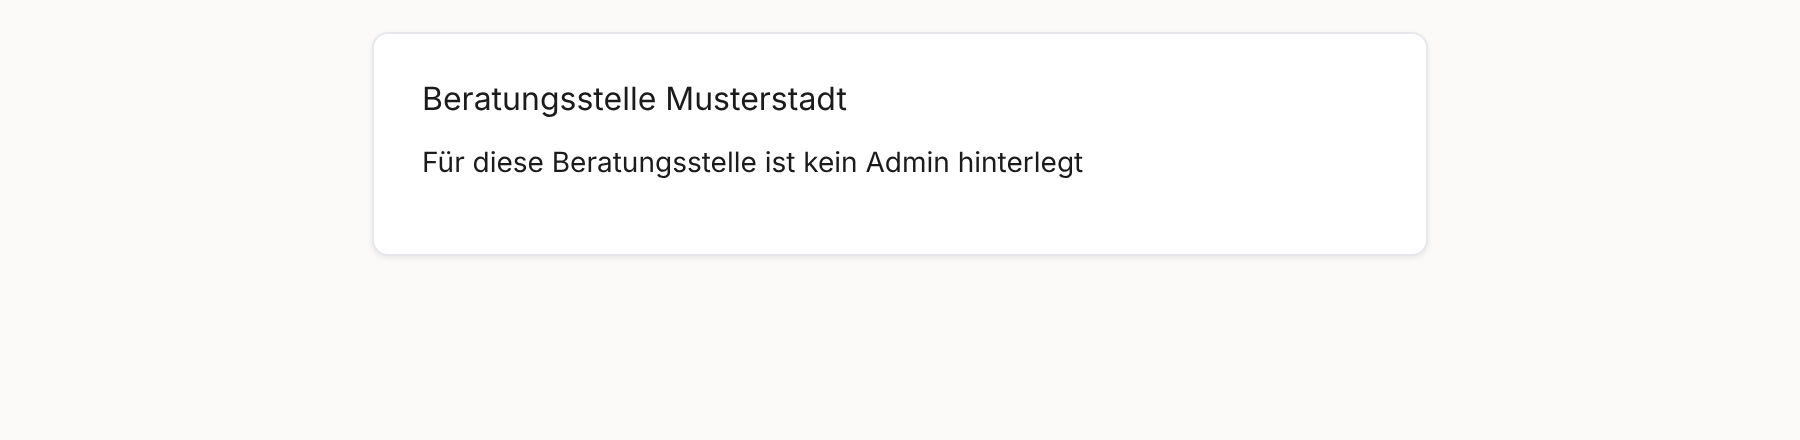
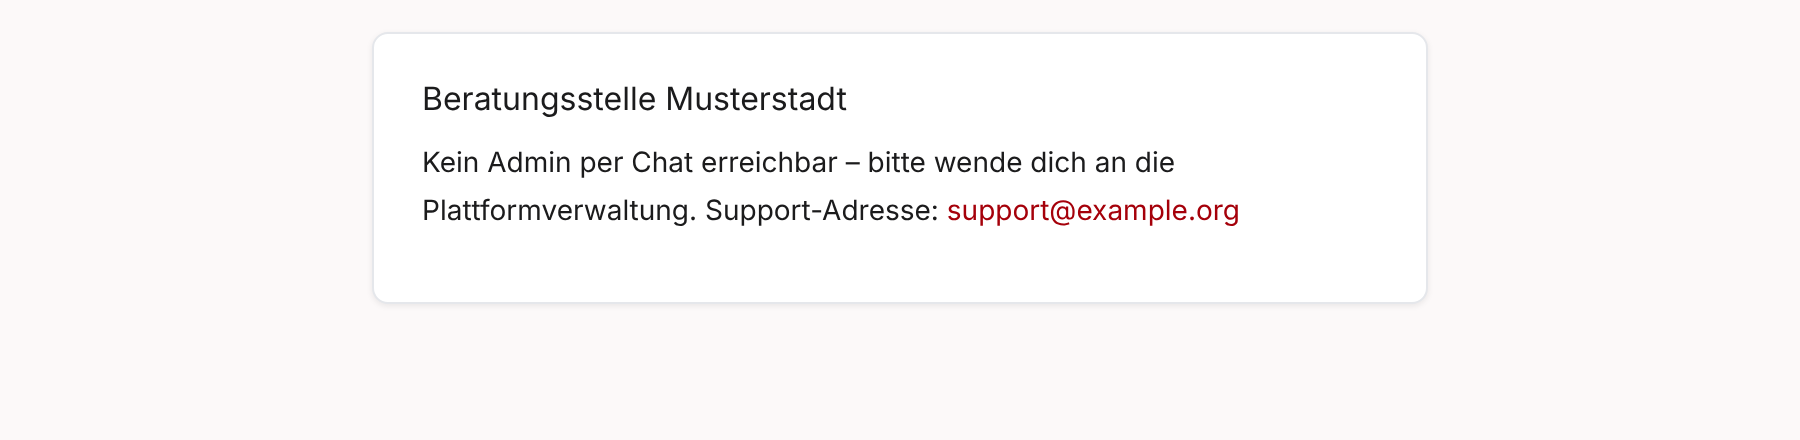
feat(profile): show the platform support e-mail when a centre has no chat admin
When a counselling centre has no admin reachable by internal chat, the hint
now reads "Kein Admin per Chat erreichbar – bitte wende dich an die
Plattformverwaltung." and, if the platform admin configured a support address
in the global settings (`supportEmail`, read from GET /service/settings into
AppConfig), a mailto link to it follows. Without an address: hint only.

- address is validated before it reaches the href (single plain address only)
- i18n de/en/fr/ru/ti/tr (ti is machine-assisted, worth a native check)
- tests: none + email -> link, none without/invalid email -> hint only
- NoAdmin story shows the email variant, new NoAdminNoSupportEmail story;
  02-after-no-admin screenshots and README updated

Refs ORISO-Frontend#1915. Needs ORISO-ConsultingTypeService supportEmail setting.

Claude-Session: https://claude.ai/code/session_012oHuLwgsF18sXNLUVhMCvk

Changed region(s): [[0.2178, 0.4432, 0.6844, 0.5023], [0.2178, 0.325, 0.6533, 0.4136], [0.2178, 0.5614, 0.7778, 0.5909]]

diff --git a/src/components/profile/AgencyAdminContact.stories.tsx b/src/components/profile/AgencyAdminContact.stories.tsx
@@ -2,6 +2,8 @@ import * as React from 'react';
 import { useState } from 'react';
 import type { Meta, StoryObj } from '@storybook/react-vite';
 import { expect, userEvent, waitFor, within } from 'storybook/test';
+import { AppConfigContext } from '../../globalState';
+import { AppConfigInterface } from '../../globalState/interfaces';
 import { SessionsDataContext } from '../../globalState/provider/SessionsDataProvider';
 import { AgencyAdminContact } from './AgencyAdminContact';
 import './profile.styles';
@@ -80,24 +82,28 @@ const MockedUserService = ({
 };
 
 const stage =
-	(scenario: Scenario) =>
+	(scenario: Scenario, supportEmail?: string) =>
 	(Story: React.ComponentType): React.ReactElement => (
 		<MockedUserService scenario={scenario}>
-			<SessionsDataContext.Provider
-				value={{ sessions: [], ready: true, dispatch: () => {} }}
+			<AppConfigContext.Provider
+				value={{ supportEmail } as AppConfigInterface}
 			>
-				<div
-					className="profile"
-					style={{ maxWidth: 560, margin: '0 auto', padding: 16 }}
+				<SessionsDataContext.Provider
+					value={{ sessions: [], ready: true, dispatch: () => {} }}
 				>
-					<div className="profile__data__content">
-						<div>
-							Beratungsstelle Musterstadt
-							<Story />
+					<div
+						className="profile"
+						style={{ maxWidth: 560, margin: '0 auto', padding: 16 }}
+					>
+						<div className="profile__data__content">
+							<div>
+								Beratungsstelle Musterstadt
+								<Story />
+							</div>
 						</div>
 					</div>
-				</div>
-			</SessionsDataContext.Provider>
+				</SessionsDataContext.Provider>
+			</AppConfigContext.Provider>
 		</MockedUserService>
 	);
 
@@ -123,16 +129,31 @@ export const AdminsAvailable: Story = {
 	}
 };
 
-/** No admin on file: a hint replaces the link, never a dead button. */
+/**
+ * No admin reachable by chat: a hint replaces the link (never a dead button)
+ * and, because the platform admin configured a support address in the global
+ * settings, a mailto link to it follows.
+ */
 export const NoAdmin: Story = {
+	decorators: [stage('none', 'support@example.org')],
+	play: async ({ canvasElement }) => {
+		const canvas = within(canvasElement);
+		await expect(await canvas.findByRole('status')).toBeVisible();
+		await expect(
+			await canvas.findByRole('link', { name: 'support@example.org' })
+		).toHaveAttribute('href', 'mailto:support@example.org');
+		await expect(canvas.queryByRole('button')).not.toBeInTheDocument();
+	}
+};
+
+/** No admin and no support address configured: the hint alone, no link. */
+export const NoAdminNoSupportEmail: Story = {
 	decorators: [stage('none')],
 	play: async ({ canvasElement }) => {
-		await expect(
-			await within(canvasElement).findByRole('status')
-		).toBeVisible();
-		await expect(
-			within(canvasElement).queryByRole('button')
-		).not.toBeInTheDocument();
+		const canvas = within(canvasElement);
+		await expect(await canvas.findByRole('status')).toBeVisible();
+		await expect(canvas.queryByRole('link')).not.toBeInTheDocument();
+		await expect(canvas.queryByRole('button')).not.toBeInTheDocument();
 	}
 };
 

diff --git a/src/components/profile/AgencyAdminContact.tsx b/src/components/profile/AgencyAdminContact.tsx
@@ -1,6 +1,7 @@
 import * as React from 'react';
 import { useEffect, useState } from 'react';
 import { useTranslation } from 'react-i18next';
+import { useAppConfig } from '../../hooks/useAppConfig';
 import {
 	AgencyAdminContact as AdminContact,
 	apiGetAgencyAdminContacts
@@ -15,6 +16,20 @@ const NAME_MAX = 50;
 const toChatName = (agencyName: string, fallback: string): string => {
 	const name = (agencyName ?? '').trim().slice(0, NAME_MAX).trim();
 	return name.length >= NAME_MIN ? name : fallback;
+};
+
+/**
+ * One plain address only. The value comes from a public setting and ends up in
+ * a `mailto:` href, so anything that could add recipients, headers or a body
+ * (`?`, `&`, `,`, `;`, whitespace, angle brackets) is rejected rather than
+ * escaped: the hint then simply shows without a link.
+ */
+const SUPPORT_EMAIL_PATTERN =
+	/^[^\s@?&#,;<>"']+@[^\s@?&#,;<>"']+\.[^\s@?&#,;<>"']+$/;
+
+const toSupportEmail = (value: unknown): string | null => {
+	const email = typeof value === 'string' ? value.trim() : '';
+	return SUPPORT_EMAIL_PATTERN.test(email) ? email : null;
 };
 
 type State =
@@ -32,7 +47,9 @@ interface AgencyAdminContactProps {
  * Settings entry of one counselling centre (OBP 2.1 #117): contact the
  * centre's admin(s) in an internal chat named after the centre. The admins
  * come from the UserService (`admin-contacts`); with none, or when they cannot
- * be loaded, a hint replaces the link — never a dead button. Opening twice
+ * be loaded, a hint replaces the link — never a dead button. With none, the
+ * hint also names the platform's fallback support address (global setting
+ * `supportEmail`) as a mailto link when one is configured. Opening twice
  * with the same people reuses the room (decided by the UserService).
  */
 export const AgencyAdminContact = ({
@@ -42,6 +59,7 @@ export const AgencyAdminContact = ({
 	const { t: translate } = useTranslation();
 	const [state, setState] = useState<State>({ status: 'loading' });
 	const { submit, isSubmitting, errorReason } = useInternalSubsetChatSubmit();
+	const supportEmail = toSupportEmail(useAppConfig()?.supportEmail);
 
 	useEffect(() => {
 		let cancelled = false;
@@ -69,7 +87,20 @@ export const AgencyAdminContact = ({
 	if (state.admins.length === 0) {
 		return (
 			<p className="text--tertiary mt--1" role="status">
-				{translate('profile.data.agency.adminContact.none')}
+				<span>
+					{translate('profile.data.agency.adminContact.none')}
+				</span>
+				{supportEmail && (
+					<>
+						{' '}
+						{translate(
+							'profile.data.agency.adminContact.supportEmail'
+						)}{' '}
+						<a className="primary" href={`mailto:${supportEmail}`}>
+							{supportEmail}
+						</a>
+					</>
+				)}
 			</p>
 		);
 	}

diff --git a/src/components/profile/AgencyAdminContact.test.tsx b/src/components/profile/AgencyAdminContact.test.tsx
@@ -21,6 +21,11 @@ vi.mock('react-i18next', () => ({
 	useTranslation: () => ({ t: (key: string) => key })
 }));
 
+let appConfig: { supportEmail?: string } = {};
+vi.mock('../../hooks/useAppConfig', () => ({
+	useAppConfig: () => appConfig
+}));
+
 const apiMock = vi.fn();
 vi.mock('../../api/apiGetAgencyAdminContacts', () => ({
 	apiGetAgencyAdminContacts: (...args: unknown[]) => apiMock(...args)
@@ -42,6 +47,7 @@ vi.mock('../conversationCreate/useInternalSubsetChatSubmit', () => ({
 afterEach(cleanup);
 
 beforeEach(() => {
+	appConfig = {};
 	apiMock.mockReset();
 	submit.mockReset();
 	hookState = { isSubmitting: false, errorReason: null };
@@ -95,6 +101,53 @@ describe('AgencyAdminContact (#117)', () => {
 			await screen.findByText('profile.data.agency.adminContact.none')
 		).toBeTruthy();
 		expect(screen.queryByRole('button')).toBeNull();
+	});
+
+	it('adds a mailto link to the configured support address when the centre has no admin', async () => {
+		appConfig = { supportEmail: 'support@example.org' };
+		apiMock.mockResolvedValue([]);
+		renderIt();
+
+		expect(
+			await screen.findByText('profile.data.agency.adminContact.none')
+		).toBeTruthy();
+		const mail = screen.getByRole('link', { name: 'support@example.org' });
+		expect(mail.getAttribute('href')).toBe('mailto:support@example.org');
+		expect(screen.queryByRole('button')).toBeNull();
+	});
+
+	it.each([
+		['not configured', undefined],
+		['empty', ''],
+		['blank', '   '],
+		['not an address', 'kein-email'],
+		['carrying mailto parameters', 'a@example.org?bcc=x@example.org'],
+		['a list', 'a@example.org, b@example.org']
+	])(
+		'shows the hint without a link when the support address is %s',
+		async (_label, supportEmail) => {
+			appConfig = { supportEmail };
+			apiMock.mockResolvedValue([]);
+			renderIt();
+
+			expect(
+				await screen.findByText('profile.data.agency.adminContact.none')
+			).toBeTruthy();
+			expect(screen.queryByRole('link')).toBeNull();
+		}
+	);
+
+	it('does not offer the support address while admins exist or loading failed', async () => {
+		appConfig = { supportEmail: 'support@example.org' };
+		apiMock.mockRejectedValue(new Error('CATCH_ALL'));
+		renderIt();
+
+		await waitFor(() =>
+			expect(
+				screen.getByText('profile.data.agency.adminContact.error')
+			).toBeTruthy()
+		);
+		expect(screen.queryByRole('link')).toBeNull();
 	});
 
 	it('shows a hint, not a link, and does not throw when the admins cannot be loaded', async () => {

diff --git a/src/globalState/interfaces/AppConfig/AppSettingsInterface.ts b/src/globalState/interfaces/AppConfig/AppSettingsInterface.ts
@@ -21,4 +21,6 @@ export interface AppSettingsInterface {
 	useOverviewPage?: boolean;
 	/** feature flag for the documentation  */
 	documentationEnabled?: boolean;
+	/** Fallback support e-mail (platform admin, global settings); shown when a centre has no chat-reachable admin (#1915). */
+	supportEmail?: string;
 }

diff --git a/src/globalState/interfaces/ServerAppConfigInterface.ts b/src/globalState/interfaces/ServerAppConfigInterface.ts
@@ -4,6 +4,7 @@ export type ServerAppConfigInterface = {
 
 interface ServerAppConfigCustomInterface {
 	mainTenantSubdomainForSingleDomainMultitenancy?: ServerAppConfigValueInterface<string>;
+	supportEmail?: ServerAppConfigValueInterface<string>;
 	releaseToggles: Record<string, string>;
 }
 

diff --git a/docs/storybook/issue-1915-agency-admin-contact/README.md b/docs/storybook/issue-1915-agency-admin-contact/README.md
@@ -7,12 +7,12 @@ The stories answer `GET /users/agencies/{id}/admin-contacts` and
 New feature, no before state: there is no Storybook story for the Beratungsstellen
 section on `dev`, and the link did not exist before.
 
-| Image                                                 | Proves                                                                                              |
-| ----------------------------------------------------- | --------------------------------------------------------------------------------------------------- |
-| `01-after-admins-desktop.png` / `-phone390.png`       | With an admin on file the centre shows the link "Beratungsstellen-Admin kontaktieren".              |
-| `02-after-no-admin-desktop.png` / `-phone390.png`     | No admin on file: the hint "kein Admin hinterlegt" replaces the link (no dead button).              |
-| `03-after-load-error-desktop.png` / `-phone390.png`   | Admin list failed to load: an error hint replaces the link.                                         |
-| `04-after-chat-refused-desktop.png` / `-phone390.png` | A refused chat call (encryption unavailable) shows its reason next to the link; nothing is created. |
+| Image                                                 | Proves                                                                                                                                                                                                                                                                                                                              |
+| ----------------------------------------------------- | ----------------------------------------------------------------------------------------------------------------------------------------------------------------------------------------------------------------------------------------------------------------------------------------------------------------------------------- |
+| `01-after-admins-desktop.png` / `-phone390.png`       | With an admin on file the centre shows the link "Beratungsstellen-Admin kontaktieren".                                                                                                                                                                                                                                              |
+| `02-after-no-admin-desktop.png` / `-phone390.png`     | No admin reachable by chat: the hint "Kein Admin per Chat erreichbar – bitte wende dich an die Plattformverwaltung." replaces the link (no dead button) and, with a support address set in the global settings, a mailto link to it follows. Without an address the hint stands alone (story `NoAdminNoSupportEmail`, unit-tested). |
+| `03-after-load-error-desktop.png` / `-phone390.png`   | Admin list failed to load: an error hint replaces the link.                                                                                                                                                                                                                                                                         |
+| `04-after-chat-refused-desktop.png` / `-phone390.png` | A refused chat call (encryption unavailable) shows its reason next to the link; nothing is created.                                                                                                                                                                                                                                 |
 
 Desktop = 900 px viewport, phone = 390 px viewport (both at 2x).
 
